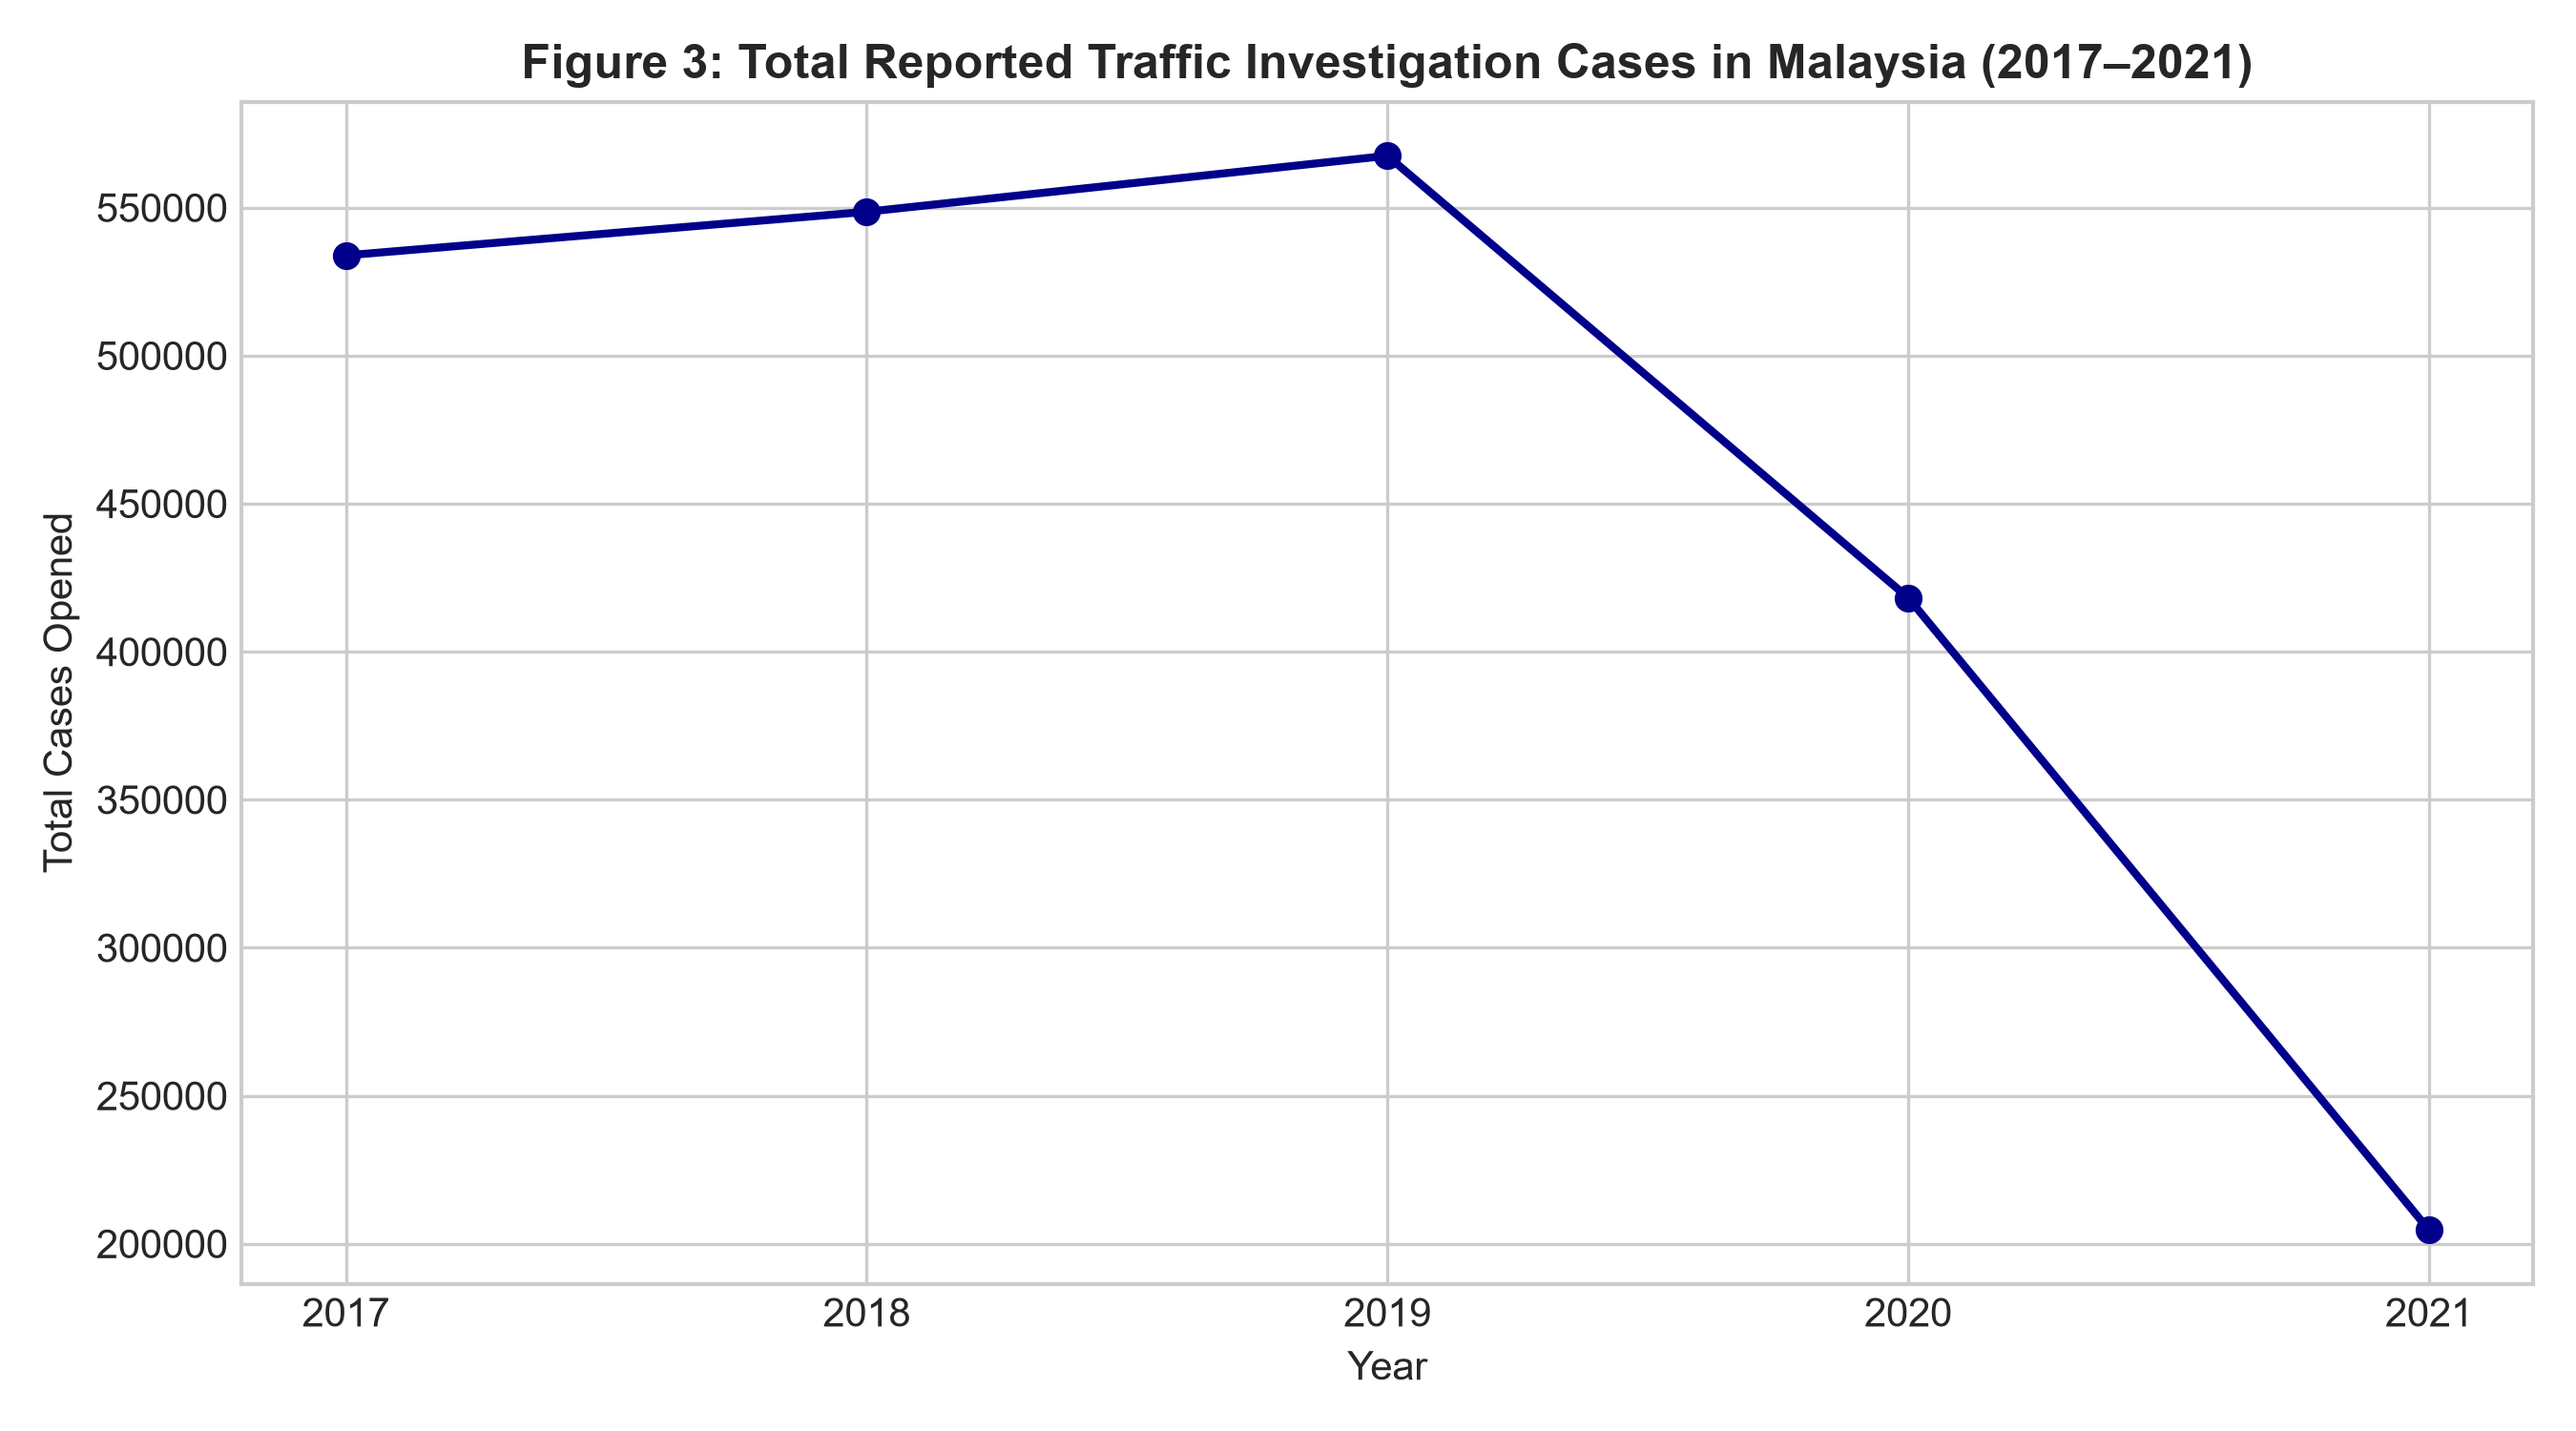
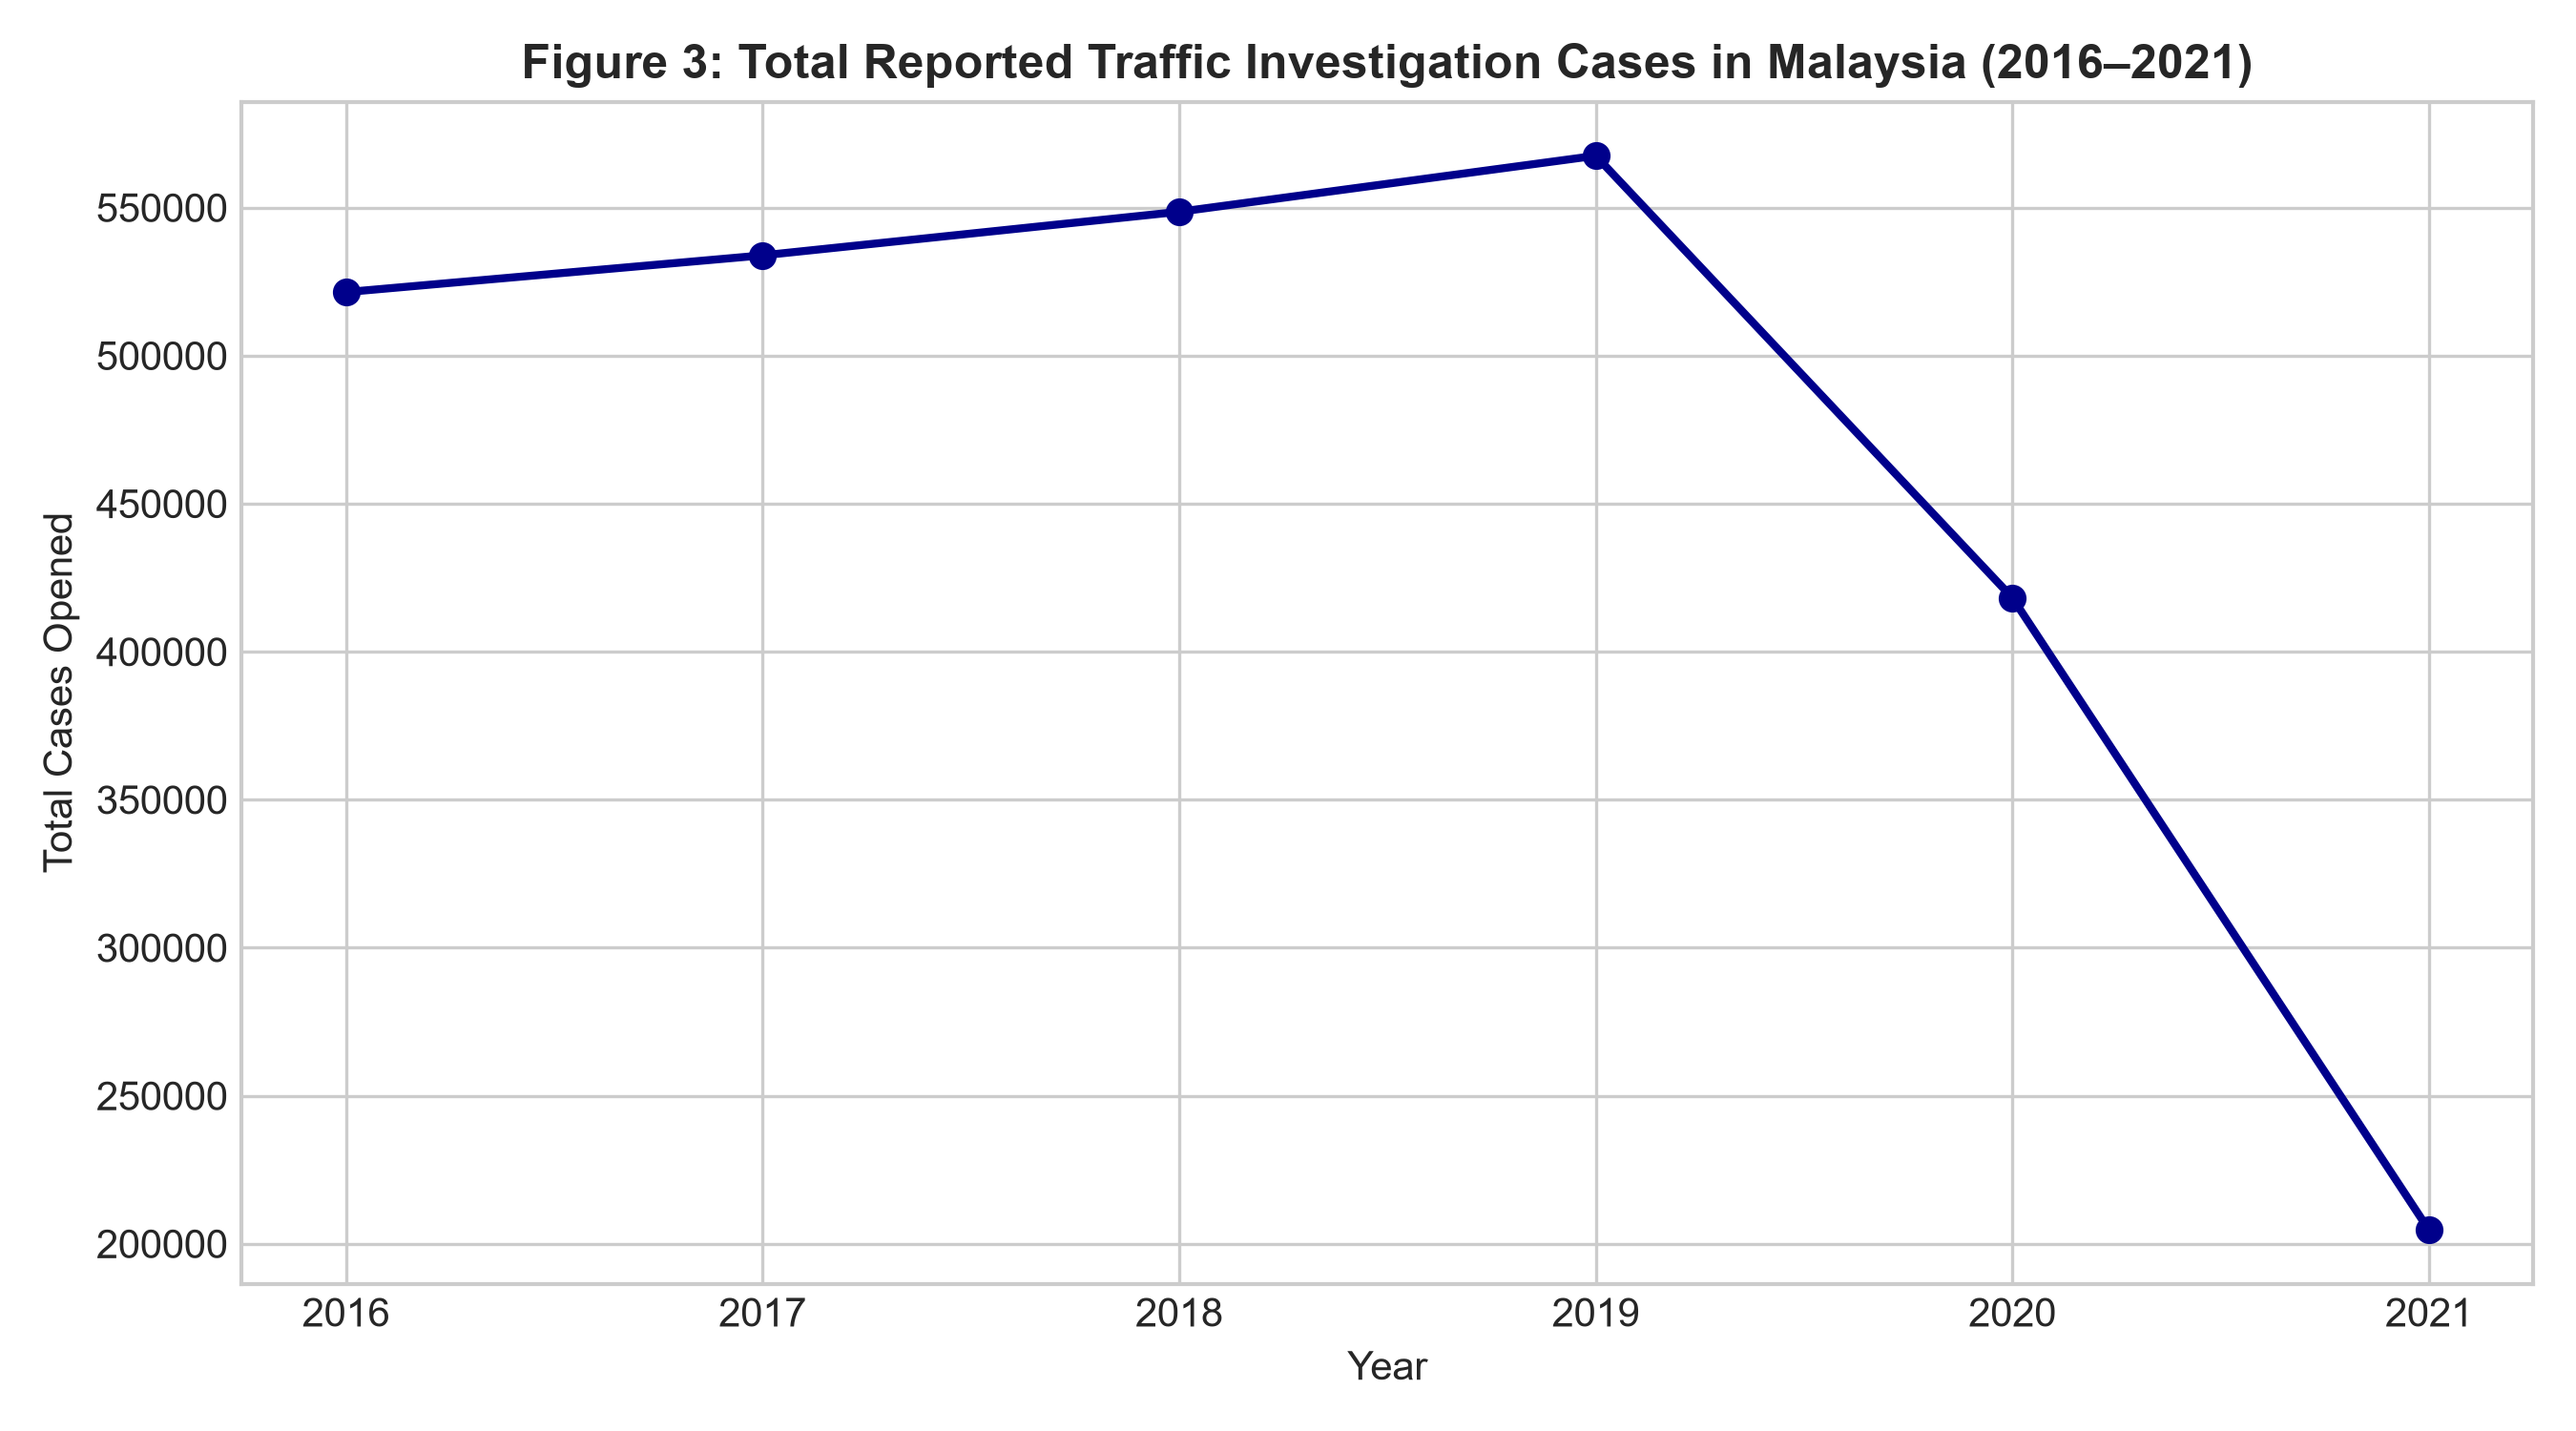
add: merged datasets for RQ2

diff --git a/Malaysian Road Accident Data.py b/Malaysian Road Accident Data.py
@@ -1,9 +1,3 @@
-"""
-BTPR3203 - Python for Data Science (Project Submission)
-Script: main_analysis.py
-Title: Analyzing Road Safety Dynamics in Malaysia: Vehicle Involvement, Severity Classifications, and Population-Normalized Geographic Hotspots
-"""
-
 import os
 import pandas as pd
 import numpy as np
@@ -16,13 +10,13 @@ plt.style.use('seaborn-v0_8-whitegrid' if 'seaborn-v0_8-whitegrid' in plt.style.
 plt.rcParams.update({'font.size': 10, 'figure.dpi': 300})
 
 def setup_directories():
-    """Ensure output folders exist for processed files and visualizations."""
+    #Ensure output folders exist for processed files and visualizations.
     os.makedirs('outputs', exist_ok=True)
     os.makedirs('visualizations', exist_ok=True)
     print("[INFO] Output directories initialized.")
 
 def load_and_clean_data():
-    """Load raw datasets, clean formatting, and convert data types."""
+    #Load raw datasets, clean formatting, and convert data types.
     print("[INFO] Loading datasets...")
     
     # 1. Load Vehicle Dataset
@@ -35,9 +29,49 @@ def load_and_clean_data():
     df_inj['Condition'] = df_inj['Condition'].str.strip()
     
     # 3. Load State Statistics Dataset
-    df_stat = pd.read_csv('dataset/STATISTIK KEMALANGAN, KEMALANGAN MAUT DAN KEMATIAN.csv')
-    df_stat['Negeri'] = df_stat['Negeri'].str.strip()
-    df_stat['Klasifikasi Kemalangan'] = df_stat['Klasifikasi Kemalangan'].str.strip()
+    df_stat1 = pd.read_csv('dataset/STATISTIK KEMALANGAN, KEMALANGAN MAUT DAN KEMATIAN.csv')
+    df_stat1 = df_stat1.dropna(how='all', axis=1)
+
+    df_stat2 = pd.read_excel('dataset/Statistik Kemalangan, Kemalangan Maut Dan Kematian.xlsx', header=1)
+
+    key_cols = ['Tahun', 'Negeri', 'Klasifikasi Kemalangan']
+    num_cols = ['Lebuh Raya', 'Jalan Persekutuan', 'Jalan Negeri', 'Jalan Bandaran', 'Lain-lain Jalan', 'Jumlah']
+
+    # Clean state datasets
+    def clean_dataframe(df):
+        df = df.dropna(subset=['Tahun']).copy()
+        # Strip whitespace from column names
+        df.columns = df.columns.str.strip()
+        # Clean and cast key columns
+        df['Tahun'] = df['Tahun'].astype(int)
+        df['Negeri'] = df['Negeri'].astype(str).str.strip()
+        df['Klasifikasi Kemalangan'] = df['Klasifikasi Kemalangan'].astype(str).str.strip()
+        # Clean numeric columns (remove commas like '1,029' -> 1029)
+        for col in num_cols:
+            df[col] = pd.to_numeric(df[col].astype(str).str.replace(',', '').str.strip(), errors='coerce')
+        return df
+
+    df_stat1_clean = clean_dataframe(df_stat1)
+    df_stat2_clean = clean_dataframe(df_stat2)
+
+    # Compare overlapping records
+    overlap = pd.merge(df_stat1_clean, df_stat2_clean, on=key_cols, suffixes=('_excel', '_csv'))
+    diff_found = False
+    for col in num_cols:
+        diff_rows = overlap[overlap[f'{col}_excel'] != overlap[f'{col}_csv']]
+        if not diff_rows.empty:
+            diff_found = True
+            print(f"⚠ Differences found in column '{col}': {len(diff_rows)} rows mismatch.")
+            print(diff_rows[key_cols + [f'{col}_excel', f'{col}_csv']].head())
+    if not diff_found:
+        print("✅ All 126 overlapping rows match perfectly across all columns!")
+
+    # Concatenate and remove duplicates based on the primary keys
+    df_combined = pd.concat([df_stat1_clean, df_stat2_clean], ignore_index=True)
+    df_stat = df_combined.drop_duplicates(subset=key_cols, keep='last')
+
+    # Sort chronologically and by location
+    df_stat = df_stat.sort_values(by=['Tahun', 'Negeri', 'Klasifikasi Kemalangan']).reset_index(drop=True)
     
     # Clean commas and convert object columns to numeric in State dataset
     num_cols = ['Lebuh Raya', 'Jalan Persekutuan', 'Jalan Negeri', 'Jalan Bandaran', 'Lain-lain Jalan', 'Jumlah']
@@ -52,9 +86,8 @@ def load_and_clean_data():
     return df_veh, df_inj, df_stat
 
 def process_rq1(df_veh):
-    """
-    RQ1: Vehicle involvement analysis and longitudinal distribution.
-    """
+    #RQ1: Vehicle involvement analysis and longitudinal distribution.
+    
     print("\n--- Processing RQ1: Vehicle Types Analysis ---")
     
     # Total involvement summary across all years
@@ -87,9 +120,8 @@ def process_rq1(df_veh):
     print("[PLOT SAVED] visualizations/fig1_vehicle_trends.png")
 
 def process_rq2(df_inj, df_stat):
-    """
-    RQ2: Accident classification trends (Deaths vs. Injuries & State Classifications).
-    """
+    #RQ2: Accident classification trends (Deaths vs. Injuries & State Classifications).
+
     print("\n--- Processing RQ2: Accident Severity & Classifications ---")
     
     # Aggregate Deaths vs. Injuries
@@ -106,10 +138,10 @@ def process_rq2(df_inj, df_stat):
     inj_trend.to_csv('outputs/processed_deaths_and_injuries_trend.csv')
     print("[OUTPUT SAVED] outputs/processed_deaths_and_injuries_trend.csv")
     
-    # State classification national aggregation (2017-2021)
+    # State classification national aggregation (2016-2021)
     stat_trend = df_stat.groupby(['Tahun', 'Klasifikasi Kemalangan'])['Jumlah'].sum().unstack()
-    stat_trend.to_csv('outputs/processed_national_classification_2017_2021.csv')
-    print("[OUTPUT SAVED] outputs/processed_national_classification_2017_2021.csv")
+    stat_trend.to_csv('outputs/processed_national_classification_2016_2021.csv')
+    print("[OUTPUT SAVED] outputs/processed_national_classification_2016_2021.csv")
     
     # Plotting Figure 2: Deaths vs Injuries dual axis
     fig, ax1 = plt.subplots(figsize=(10, 5))
@@ -139,7 +171,7 @@ def process_rq2(df_inj, df_stat):
     # Plotting Figure 3: Traffic Investigation Cases Trend
     plt.figure(figsize=(9, 5))
     plt.plot(stat_trend.index, stat_trend['Kes Siasatan Trafik (KST) Kemalangan Jalan Raya Dibuka'], marker='o', linewidth=2, color='darkblue')
-    plt.title('Figure 3: Total Reported Traffic Investigation Cases in Malaysia (2017–2021)', fontsize=12, fontweight='bold')
+    plt.title('Figure 3: Total Reported Traffic Investigation Cases in Malaysia (2016–2021)', fontsize=12, fontweight='bold')
     plt.xlabel('Year')
     plt.ylabel('Total Cases Opened')
     plt.xticks(stat_trend.index)
@@ -149,9 +181,8 @@ def process_rq2(df_inj, df_stat):
     print("[PLOT SAVED] visualizations/fig3_traffic_cases_trend.png")
 
 def process_rq3(df_stat):
-    """
-    RQ3: State concentration analysis normalized by population metrics using state_population_2019.csv.
-    """
+    #RQ3: State concentration analysis normalized by population metrics using state_population_2019.csv.
+    
     print("\n--- Processing RQ3: Population-Normalized State Hotspots ---")
     
     # 1. Filter 2019 accident baseline data
@@ -231,7 +262,7 @@ def process_rq3(df_stat):
     print("[PLOT SAVED] visualizations/fig5_state_fatalities_normalized.png")
 
 def main():
-    """Main execution function."""
+    #Main execution function.
     setup_directories()
     df_veh, df_inj, df_stat = load_and_clean_data()
     process_rq1(df_veh)
